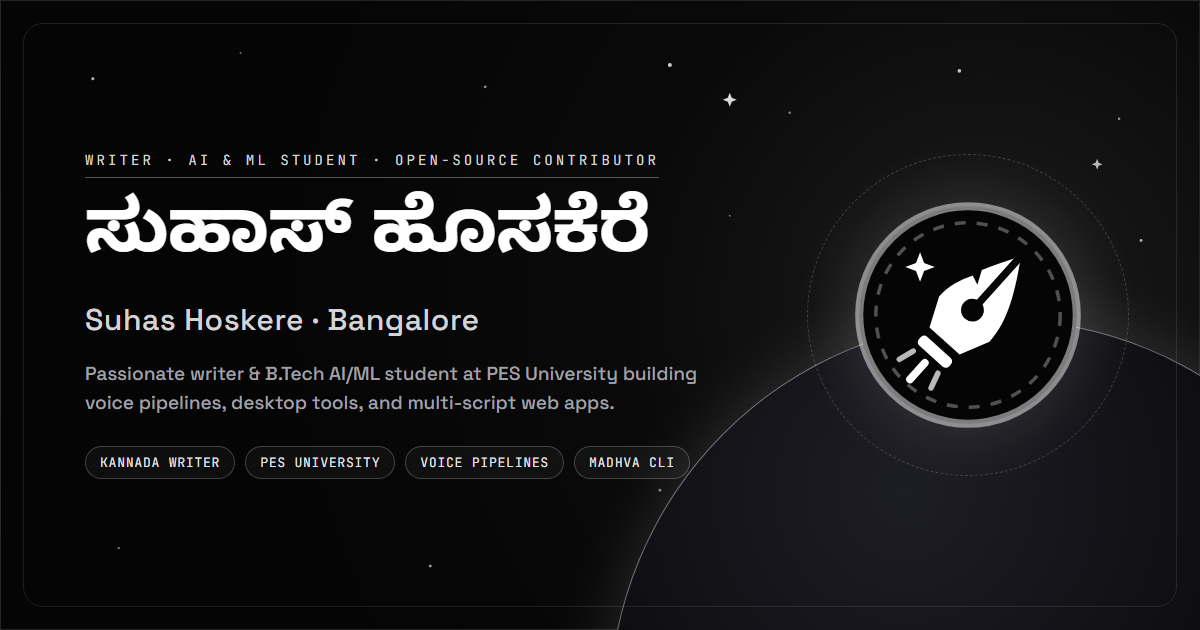
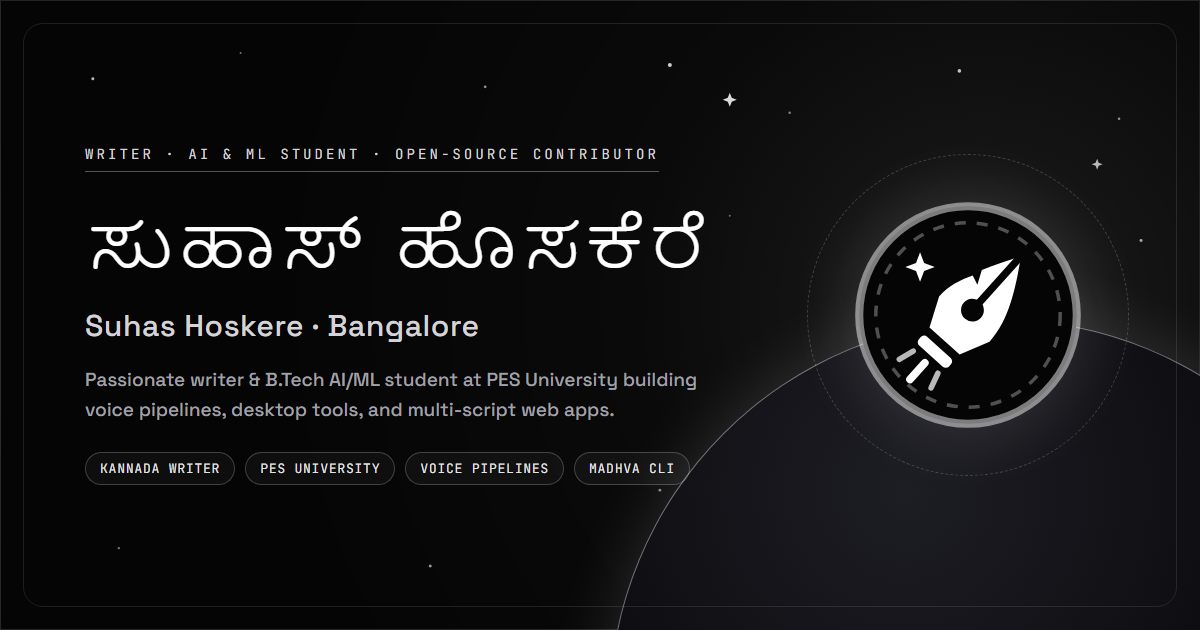
Apply Hubballi calligraphic Kannada font to Hero H1, intro loader, and OG card

diff --git a/index.html b/index.html
@@ -20,10 +20,10 @@
     <meta name="twitter:description" content="Writer · AI &amp; ML Student (PES University) · Open-Source Contributor" />
     <meta name="twitter:image" content="/og-card.png" />
     
-    <!-- Google Fonts: Space Grotesk, JetBrains Mono, Noto Sans Kannada, Akaya Kanadaka & Cormorant Garamond -->
+    <!-- Google Fonts: Space Grotesk, JetBrains Mono, Noto Sans Kannada, Akaya Kanadaka, Hubballi & Cormorant Garamond -->
     <link rel="preconnect" href="https://fonts.googleapis.com">
     <link rel="preconnect" href="https://fonts.gstatic.com" crossorigin>
-    <link rel="stylesheet" href="https://fonts.googleapis.com/css2?family=Akaya+Kanadaka&family=Cormorant+Garamond:ital,wght@1,600&family=JetBrains+Mono:wght@400;600&family=Noto+Sans+Kannada:wght@500;700&family=Space+Grotesk:wght@500;700&display=swap">
+    <link rel="stylesheet" href="https://fonts.googleapis.com/css2?family=Akaya+Kanadaka&family=Cormorant+Garamond:ital,wght@1,600&family=Hubballi&family=JetBrains+Mono:wght@400;600&family=Noto+Sans+Kannada:wght@500;700&family=Space+Grotesk:wght@500;700&display=swap">
   </head>
   <body class="bg-[#050505] text-white selection:bg-white selection:text-black antialiased overflow-x-hidden">
     <div id="root"></div>

diff --git a/src/components/FlightMissionOverlays.tsx b/src/components/FlightMissionOverlays.tsx
@@ -93,7 +93,10 @@ export const FlightMissionOverlays: React.FC<FlightMissionOverlaysProps> = React
                 </div>
 
                 <div className={`space-y-1.5 ${enterCls}`} style={{ animationDelay: '75ms' }}>
-                  <h1 className="text-[clamp(2.2rem,5vw,4.35rem)] font-kannada font-bold text-white leading-[1.15] tracking-tight">
+                  <h1
+                    className="text-[clamp(2.75rem,5.8vw,5.1rem)] font-hubballi font-normal text-white leading-[1.12] tracking-wide"
+                    style={{ fontFamily: '"Hubballi", "Noto Sans Kannada", cursive' }}
+                  >
                     ಸುಹಾಸ್ ಹೊಸಕೆರೆ
                   </h1>
                   <div className="font-space text-base sm:text-lg font-medium text-zinc-300 tracking-wide">

diff --git a/src/components/MonochromeLiftoffLoader.tsx b/src/components/MonochromeLiftoffLoader.tsx
@@ -430,7 +430,10 @@ export const MonochromeLiftoffLoader: React.FC<MonochromeLiftoffLoaderProps> = (
               <Rocket className="w-3.5 h-3.5 text-white" />
               <span>PRE-FLIGHT SEQUENCE</span>
             </div>
-            <h1 className="text-2xl sm:text-3xl font-kannada font-bold text-white tracking-tight">
+            <h1
+              className="text-3xl sm:text-4xl font-hubballi font-normal text-white tracking-wide leading-tight"
+              style={{ fontFamily: '"Hubballi", "Noto Sans Kannada", cursive' }}
+            >
               ಸುಹಾಸ್ ಹೊಸಕೆರೆ
             </h1>
             <div className="font-space text-xs sm:text-sm text-zinc-400">

diff --git a/tailwind.config.js b/tailwind.config.js
@@ -12,6 +12,7 @@ export default {
         sans: ['system-ui', '-apple-system', '"Segoe UI"', 'sans-serif'],
         kannada: ['"Noto Sans Kannada"', 'sans-serif'],
         akaya: ['"Akaya Kanadaka"', '"Noto Sans Kannada"', 'cursive', 'sans-serif'],
+        hubballi: ['"Hubballi"', '"Noto Sans Kannada"', 'cursive', 'sans-serif'],
         signature: ['"Cormorant Garamond"', 'Georgia', 'serif'],
       },
     },
